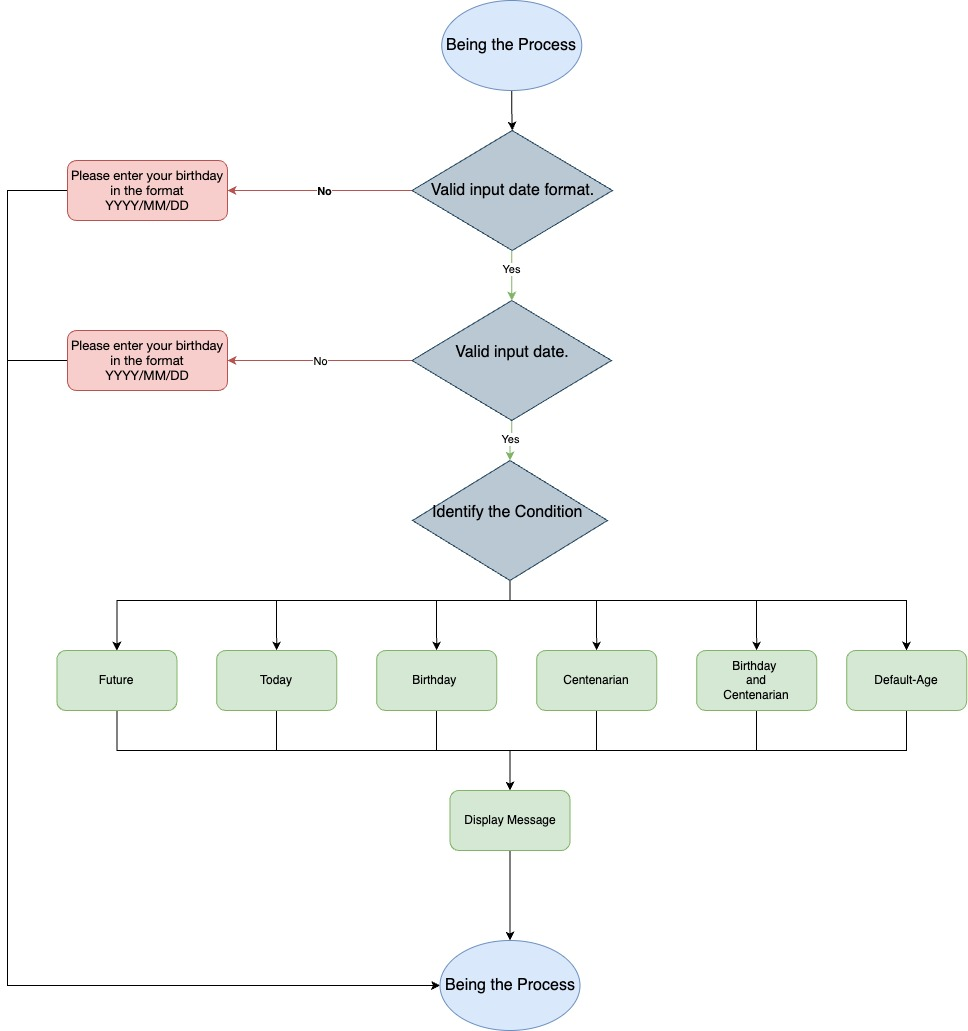
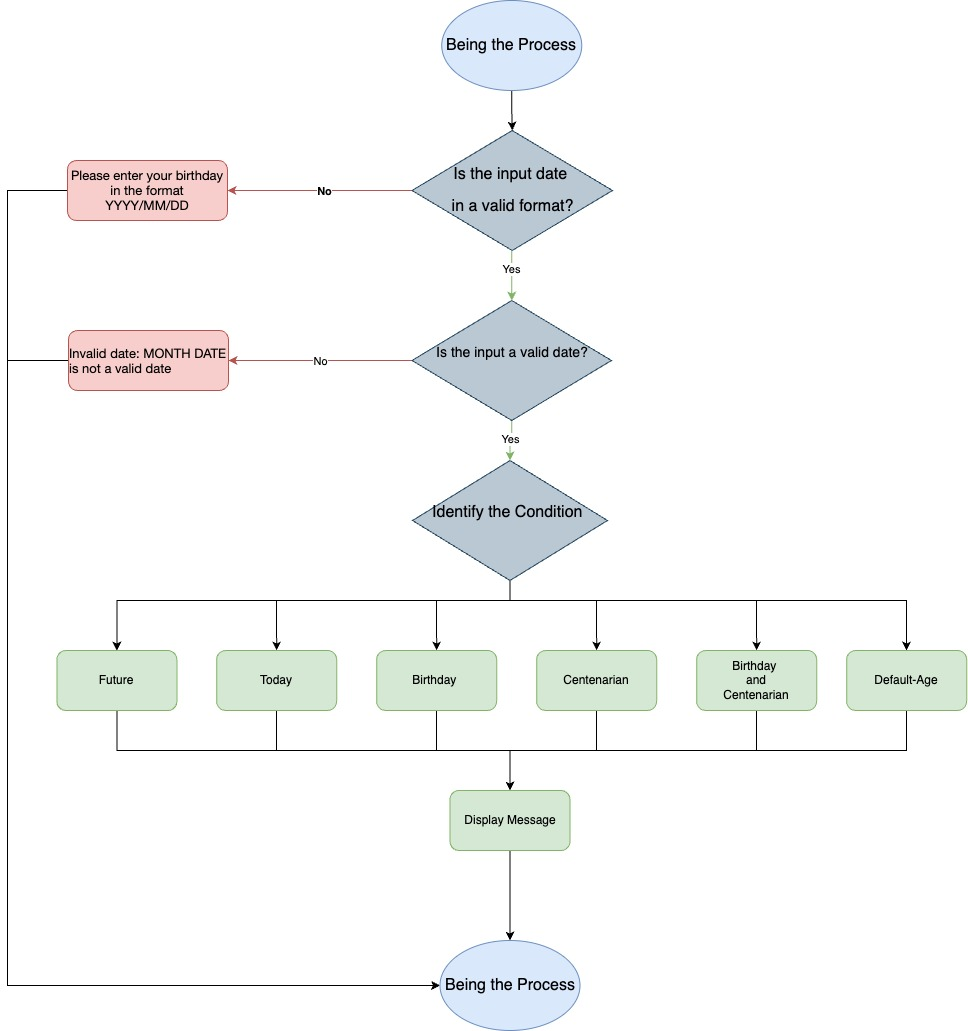
docs: updated readme with all the necessary information

Changed region(s): [[0.062, 0.3104, 0.2479, 0.3725], [0.4649, 0.1552, 0.5888, 0.2173], [0.4649, 0.3104, 0.5888, 0.3725]]

diff --git a/src/main/java/org/mhr/AgeCalculator.java b/src/main/java/org/mhr/AgeCalculator.java
@@ -43,8 +43,8 @@ public class AgeCalculator {
             } else {
                 String[] dateParts = inputDateOfBirth.split("/");
                 Month month = Month.of(Integer.parseInt(dateParts[1]));
-                int year = Integer.parseInt(dateParts[0]);
-                throw new IllegalArgumentException("Invalid date: " + month + " " + year + " is not a valid date.");
+                int date = Integer.parseInt(dateParts[2]);
+                throw new IllegalArgumentException("Invalid date: " + month + " " + date + " is not a valid date.");
             }
         }
     }

diff --git a/src/test/java/org/mhr/AgeCalculatorTest.java b/src/test/java/org/mhr/AgeCalculatorTest.java
@@ -35,8 +35,8 @@ class AgeCalculatorTest {
 
     @ParameterizedTest
     @CsvSource({
-            "2023/02/29, Invalid date: FEBRUARY 2023 is not a valid date.",
-            "2024/06/31, Invalid date: JUNE 2024 is not a valid date."
+            "2023/02/29, Invalid date: FEBRUARY 29 is not a valid date.",
+            "2024/06/31, Invalid date: JUNE 31 is not a valid date."
     })
     void testValidateAndParseDate_InvalidDate(String dateOfBirth, String expectedErrorMessage) {
         Exception exception = assertThrows(IllegalArgumentException.class, () -> {

diff --git a/README.md b/README.md
@@ -86,7 +86,7 @@ mvn test
 ```
 
 ## Generate Test Coverage
-The project is integrated with the JaCoCo Maven Plugin to measure and analyze code coverage for JUnit tests. By configuring JaCoCo in the pom.xml.
+The project utilizes the JaCoCo Maven Plugin to measure and analyze code coverage for JUnit tests, with its configuration defined in the pom.xml file.
 
 To generate the JaCoCo coverage report
 ```shell
